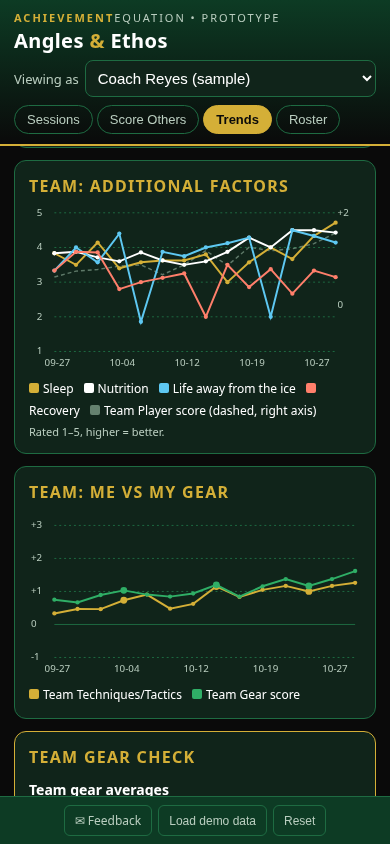
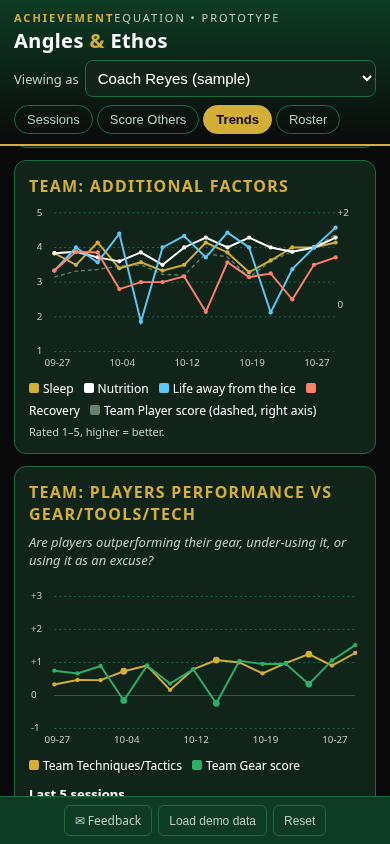
Coach Trends: Players Performance vs Gear/Tools/Tech with last-5 pattern readout

diff --git a/index.html b/index.html
@@ -141,6 +141,7 @@ ethosv(){return `<div class="card"><h2>Our Ethos Pillars</h2>${S.ethos.map((e,i)
 };
 function seriesFor(aid){return sorted().map(s=>{const e=S.entries.find(e=>e.sessionId===s.id&&e.athleteId===aid);const os=S.others.filter(o=>o.sessionId===s.id&&o.athleteId===aid);
  return{label:s.date.slice(5),comp:s.type==='competition',tac:e?avg(e.techScores):null,gear:gearScore(e),sp:e?.selfPerf??null,sv:e?.selfVal??null,op:avg(os.map(o=>o.perf)),ov:avg(os.map(o=>o.val)),eth:memberScore(e),ply:playerScore(e),tot:totalScore(e),...facPts([e])}}).filter(p=>p.tac!=null||p.op!=null)}
+function gearPatterns(p){const last=p.filter(x=>x.gear!=null).slice(-5);if(!last.length)return '<p class="muted">No gear scores yet.</p>';const c={out:0,under:0,exc:0,bal:0};last.forEach(x=>{const d=x.tac-x.gear;if((x.tac<=0&&x.gear<=0)||x.flags>0)c.exc++;else if(d>=0.3)c.out++;else if(d<=-0.3)c.under++;else c.bal++});const row=(n,v,col,t)=>`<div style="display:flex;gap:10px;align-items:flex-start;padding:5px 0;border-top:1px solid #1e6b42"><b style="min-width:26px;text-align:center;font-size:16px;color:${col}">${v}</b><div style="flex:1;font-size:13px;line-height:1.3"><b style="color:${col}">${n}</b><div class="muted" style="font-size:11px">${t}</div></div></div>`;return `<div class="gearpat" style="margin-top:10px"><h3 style="margin:0 0 4px;font-size:13px">Last ${last.length} sessions</h3>${row('Outperforming gear',c.out,'#d4af37','Techniques avg ≥0.3 above Gear: skill is carrying the equipment.')}${row('Under-using gear',c.under,'#5ec8f2','Gear rated ≥0.3 above Techniques: the tools are there; execution isn\'t using them.')}${row('Gear as excuse?',c.exc,'#ff7f6b','Both low, or a player flagged gear and own play Average or lower. Ask: was it the gear, or me?')}${c.bal?row('Balanced',c.bal,'#ffffff','Play and gear within 0.3.'):''}</div>`}
 function chart(pts,lines,bar){if(!pts.length)return '<p class="muted">No data yet.</p>';const W=340,H=170,L=26,R=bar?24:6,T=8,B=20,iw=W-L-R,ih=H-T-B;const y=v=>T+ih*(1-(v+1)/4.2),x=i=>L+(pts.length<2?iw/2:iw*i/(pts.length-1));
  let g='';[-1,0,1,2,3].forEach(v=>g+=`<line x1="${L}" x2="${W-R}" y1="${y(v)}" y2="${y(v)}" stroke="#1e6b42" stroke-dasharray="${v===0?'':'2 3'}"/><text x="2" y="${y(v)+3}">${v>0?'+':''}${v}</text>`);
  if(bar){const by=v=>T+ih*(1-v/12);pts.forEach((p,i)=>{if(p[bar.k]!=null)g+=`<rect x="${x(i)-4}" y="${by(p[bar.k])}" width="8" height="${T+ih-by(p[bar.k])}" fill="${bar.c}" opacity=".35"/>`});g+=`<text x="${W-R+2}" y="${by(8)+3}">8h</text>`}
@@ -162,10 +163,10 @@ function trendView(aid){const a=S.users.find(u=>u.id===aid);const p=seriesFor(ai
  <p class="muted" style="text-align:center">Larger dots = competition.</p>`}
 function cnHistory(){const L=sorted().reverse().filter(hasNotes);return `<div class="card" style="border-color:var(--gold)"><h2>Coach Notes history</h2><p class="muted">Your own learning over time, most recent first. Coach only.</p>${L.slice(0,10).map(x=>`<div style="padding:8px 0;border-bottom:1px solid var(--line)"><b>${x.date.slice(5)} · ${esc(x.tactic)}</b> <span class="tag ${x.type==='competition'?'comp':''}">${x.type==='competition'?'vs '+esc(x.opponent||'Opp'):'Practice'}</span>${NQ.filter(([k])=>(x.coachNotes[k]||'').trim()).map(([k,l])=>`<p style="margin:4px 0;font-size:13px"><span style="color:var(--gold)">${l}:</span> ${esc(x.coachNotes[k])}</p>`).join('')}</div>`).join('')||'<p class="muted">No Coach Notes yet. Open a session on the Sessions tab to add some.</p>'}</div>`}
 function teamView(as,tp){as=as||athletes();tp=tp||'all';const ids=new Set(as.map(a=>a.id)),EN=S.entries.filter(e=>ids.has(e.athleteId));const p=sorted().map(s=>{const es=EN.filter(e=>e.sessionId===s.id);const os=S.others.filter(o=>o.sessionId===s.id&&ids.has(o.athleteId));
- return{label:s.date.slice(5),comp:s.type==='competition',tac:avg(es.map(e=>avg(e.techScores))),sv:avg(es.map(e=>e.selfVal)),ov:avg(os.map(o=>o.val)),...facPts(es),ply:avg(es.map(playerScore)),gear:avg(es.map(gearScore)),eth:avg(es.map(memberScore))}}).filter(x=>x.tac!=null);
+ return{label:s.date.slice(5),comp:s.type==='competition',tac:avg(es.map(e=>avg(e.techScores))),sv:avg(es.map(e=>e.selfVal)),ov:avg(os.map(o=>o.val)),...facPts(es),ply:avg(es.map(playerScore)),gear:avg(es.map(gearScore)),eth:avg(es.map(memberScore)),flags:es.filter(e=>{const g=gearScore(e),t=avg(e.techScores||[]);return g!=null&&t!=null&&g<=0&&t<=0}).length}}).filter(x=>x.tac!=null);
  const rows=as.map(a=>{const q=seriesFor(a.id).slice(-5);return{a,t:avg(q.map(x=>x.tac)),o:avg(q.map(x=>x.ov)),p:avg(q.map(x=>x.ply)),m:avg(q.map(x=>x.eth)),tt:avg(q.map(x=>x.tot)),n:S.entries.filter(e=>e.athleteId===a.id).length}}).sort((x,y)=>(y.tt??-9)-(x.tt??-9));
  const lab=tp==='all'?'Team':POSP[tp];return `<div class="card"><h2>${lab}: Angles &amp; Ethos</h2>${chart(p,[{k:'ply',c:'#d4af37',n:'Angles (Player)'},{k:'eth',c:'#ffffff',n:'Ethos (Member)'}])}</div><div class="card"><h2>${lab}: Additional Factors</h2>${facChart(p,{k:'ply',n:lab+' Player score'})}</div>
- <div class="card"><h2>Team: Me vs My Gear</h2>${chart(p,[{k:'tac',c:'#d4af37',n:'Team Techniques/Tactics'},{k:'gear',c:'#2fae66',n:'Team Gear score'}])}</div>
+ <div class="card"><h2>${lab}: Players Performance vs Gear/Tools/Tech</h2><p class="muted" style="margin-top:0;font-style:italic">Are players outperforming their gear, under-using it, or using it as an excuse?</p>${chart(p,[{k:'tac',c:'#d4af37',n:'Team Techniques/Tactics'},{k:'gear',c:'#2fae66',n:'Team Gear score'}])}${gearPatterns(p)}</div>
  <div class="card" style="border-color:var(--gold)"><h2>Team gear check</h2><h3>Team gear averages</h3>${gearItems(EN).sort((a,b)=>a.avg-b.avg).map(i=>`<div class="it"><span>${esc(i.n)}</span><span class="muted">avg <b style="color:var(--gold)">${fmt(i.avg)}</b> · ${i.low}/${i.c} low</span></div>`).join('')||'<p class="muted">No gear scores yet.</p>'}
  <h3 style="margin-top:12px">"Gear or me?" flags per athlete</h3><p class="muted" style="font-style:italic">Was it the gear, or was it me?</p>${as.map(a=>({a,n:gearFlags(a.id).length})).filter(r=>r.n).sort((x,y)=>y.n-x.n).map(r=>`<div class="it"><span>${esc(r.a.name)}</span><b style="color:var(--gold)">${r.n}</b></div>`).join('')||'<p class="muted">No flags.</p>'}</div>
  <div class="card"><h2>${lab} leaderboard (last 5, by Combined)</h2><div class="list">${rows.map(r=>`<div class="it"><span>${esc(r.a.name)} <span class="tag">${posOf(r.a)}</span> <span class="muted">${r.n} logs</span></span><span>Ply <b style="color:var(--gold)">${fmt(r.p)}</b> · Mem <b>${fmt(r.m)}</b> · Σ <b style="color:var(--gold)">${fmt(r.tt)}</b></span></div>`).join('')}</div></div>`}
@@ -217,7 +218,7 @@ function demo(){const D=blank();D.team='Stars Elite 19U (demo)';
  for(let d=0;d<14;d++){const dt=new Date(start);dt.setDate(start.getDate()+d*2.5|0);const comp=d%4===3;const t=T[d%T.length];
   const s={id:'s'+d,date:dt.toISOString().slice(0,10),type:comp?'competition':'practice',opponent:comp?opps[(d/4|0)%4]:'',tactic:t[0],techniques:t[1],tools:G[d%2],tech:GT[d%3],groups:{}};const gg=GG[t[0]]||{};for(const g in gg)s.groups[g]={techniques:gg[g],tools:g==='G'?GoT:G[d%2],tech:GT[d%3]};if(!gg.G&&d%3===0)s.groups.G={techniques:t[1],tools:GoT,tech:GT[d%3]};D.sessions.push(s);
   D.users.filter(u=>u.role!=='coach').forEach((u,i)=>{if(rnd()<.1)return;const sleep=Math.round((6+rnd()*3.5)*2)/2;const base=(sleep-7.5)*.5+d*.05+(i===0?.3:0);
-   D.entries.push({sessionId:s.id,athleteId:u.id,focus:['Quick feet on retrieval','Communicate early','Win puck battles','Stick on puck'][(i+d)%4],selfPerf:sc(base+.3,comp),selfVal:sc(base+.6,comp),...(()=>{const P=(s.groups[u.pos]||s);const ts=P.techniques.map(()=>sc(base+.4,comp));const bad=(i===0&&d%5===2)||(i===3&&d%4===1);if(bad)ts.forEach((_,k)=>ts[k]=k%2?-1:0);return{techScores:ts,toolScores:P.tools.map((_,k)=>bad&&k===0?-1:sc(base+.5,false)),techGear:P.tech.map(()=>rnd()>.8?'NA':(bad?0:sc(base+.4,false))),techNA:s.tech.length?undefined:true,gearNote:bad?'Edges felt dull':''}})(),ethos:D.ethos.map(()=>sc(.8,false)),ethosNotes:D.ethos.map((_,k)=>k===3&&rnd()>.6?'Helped carry gear / picked up teammates':''),factors:(()=>{const q=v=>Math.min(5,Math.max(1,Math.round(v)));return{sleepH:sleep,sleep:q((sleep-5)*1.2+rnd()*1.2),nutrition:q(2.5+rnd()*2.5+(i%3===0?.5:0)),life:q(3+rnd()*2-(d%6===4?2:0)),rec:q(4-(comp?1:0)-rnd()*1.8+(sleep>8?.7:0)),notes:'Pasta + chicken pre-game'}})()});
+   D.entries.push({sessionId:s.id,athleteId:u.id,focus:['Quick feet on retrieval','Communicate early','Win puck battles','Stick on puck'][(i+d)%4],selfPerf:sc(base+.3,comp),selfVal:sc(base+.6,comp),...(()=>{const P=(s.groups[u.pos]||s);const ts=P.techniques.map(()=>sc(base+.4,comp));const bad=(i===0&&d%5===2)||(i===3&&d%4===1)||(i===1&&d%7===5);if(bad)ts.forEach((_,k)=>ts[k]=k%2?-1:0);return{techScores:ts,toolScores:P.tools.map((_,k)=>bad&&k===0?-1:sc(base+.5+(d%4===3?-1.4:0),false)),techGear:P.tech.map(()=>rnd()>.8?'NA':(bad?0:sc(base+.4,false))),techNA:s.tech.length?undefined:true,gearNote:bad?'Edges felt dull':''}})(),ethos:D.ethos.map(()=>sc(.8,false)),ethosNotes:D.ethos.map((_,k)=>k===3&&rnd()>.6?'Helped carry gear / picked up teammates':''),factors:(()=>{const q=v=>Math.min(5,Math.max(1,Math.round(v)));return{sleepH:sleep,sleep:q((sleep-5)*1.2+rnd()*1.2),nutrition:q(2.5+rnd()*2.5+(i%3===0?.5:0)),life:q(3+rnd()*2-(d%6===4?2:0)),rec:q(4-(comp?1:0)-rnd()*1.8+(sleep>8?.7:0)),notes:'Pasta + chicken pre-game'}})()});
    ['a1','a2','coach1'].filter(x=>x!==u.id).forEach(rid=>{if(rnd()<.5)D.others.push({sessionId:s.id,athleteId:u.id,raterId:rid,perf:sc(base+.2,comp),val:sc(base+.7,comp)})})})}
  const CN={0:{change:"Too many reps of the D-to-D before the first pass. Next time I'll cut it to two and get wingers moving earlier so the strong-side outlet is actually open.",learned:"Shoulder checks fell off as soon as forecheckers pressured. I need to add pressure earlier in the drill, not just at the end.",surprised:"The goalies' puck-stopping behind the net was the best part of the breakout. Tess talked the whole time."},3:{change:"Should have walked the box rotation at half speed before the game. We went straight to live reps in warmup and the weak side kept collapsing.",learned:"Game pressure exposes our pressure-on-bobble timing. We attacked on cue in practice but froze vs Lakeshore.",surprised:"How much the bench energy dipped after their first goal. That's an Ethos conversation, not a tactics one."},7:{change:"I explained the umbrella for 6 minutes. Next time: 90 seconds on the whiteboard, then walk it on the ice.",learned:"The bumper finds soft ice when the point walks the line with her head up. Teach the point first.",surprised:"Players rated their gear low on a night their own scores were low. Worth a 'gear or me?' talk."},10:{change:"Second breakout session and the wingers still drift off the wall. Next time I'll put a cone on the strong-side hash so they have a target.",learned:"D shoulder checks improved a lot since the first breakout day. Repetition beat re-explaining.",surprised:"Kenzie volunteered to stay late and help pick up pucks without being asked. Pillar 4 in action."}};
  Object.entries(CN).forEach(([i,n],k)=>{const s=D.sessions[+i];if(s)s.coachNotes=Object.assign({at:new Date(new Date(s.date+'T20:00').getTime()+3600e3).toISOString()},n)});
